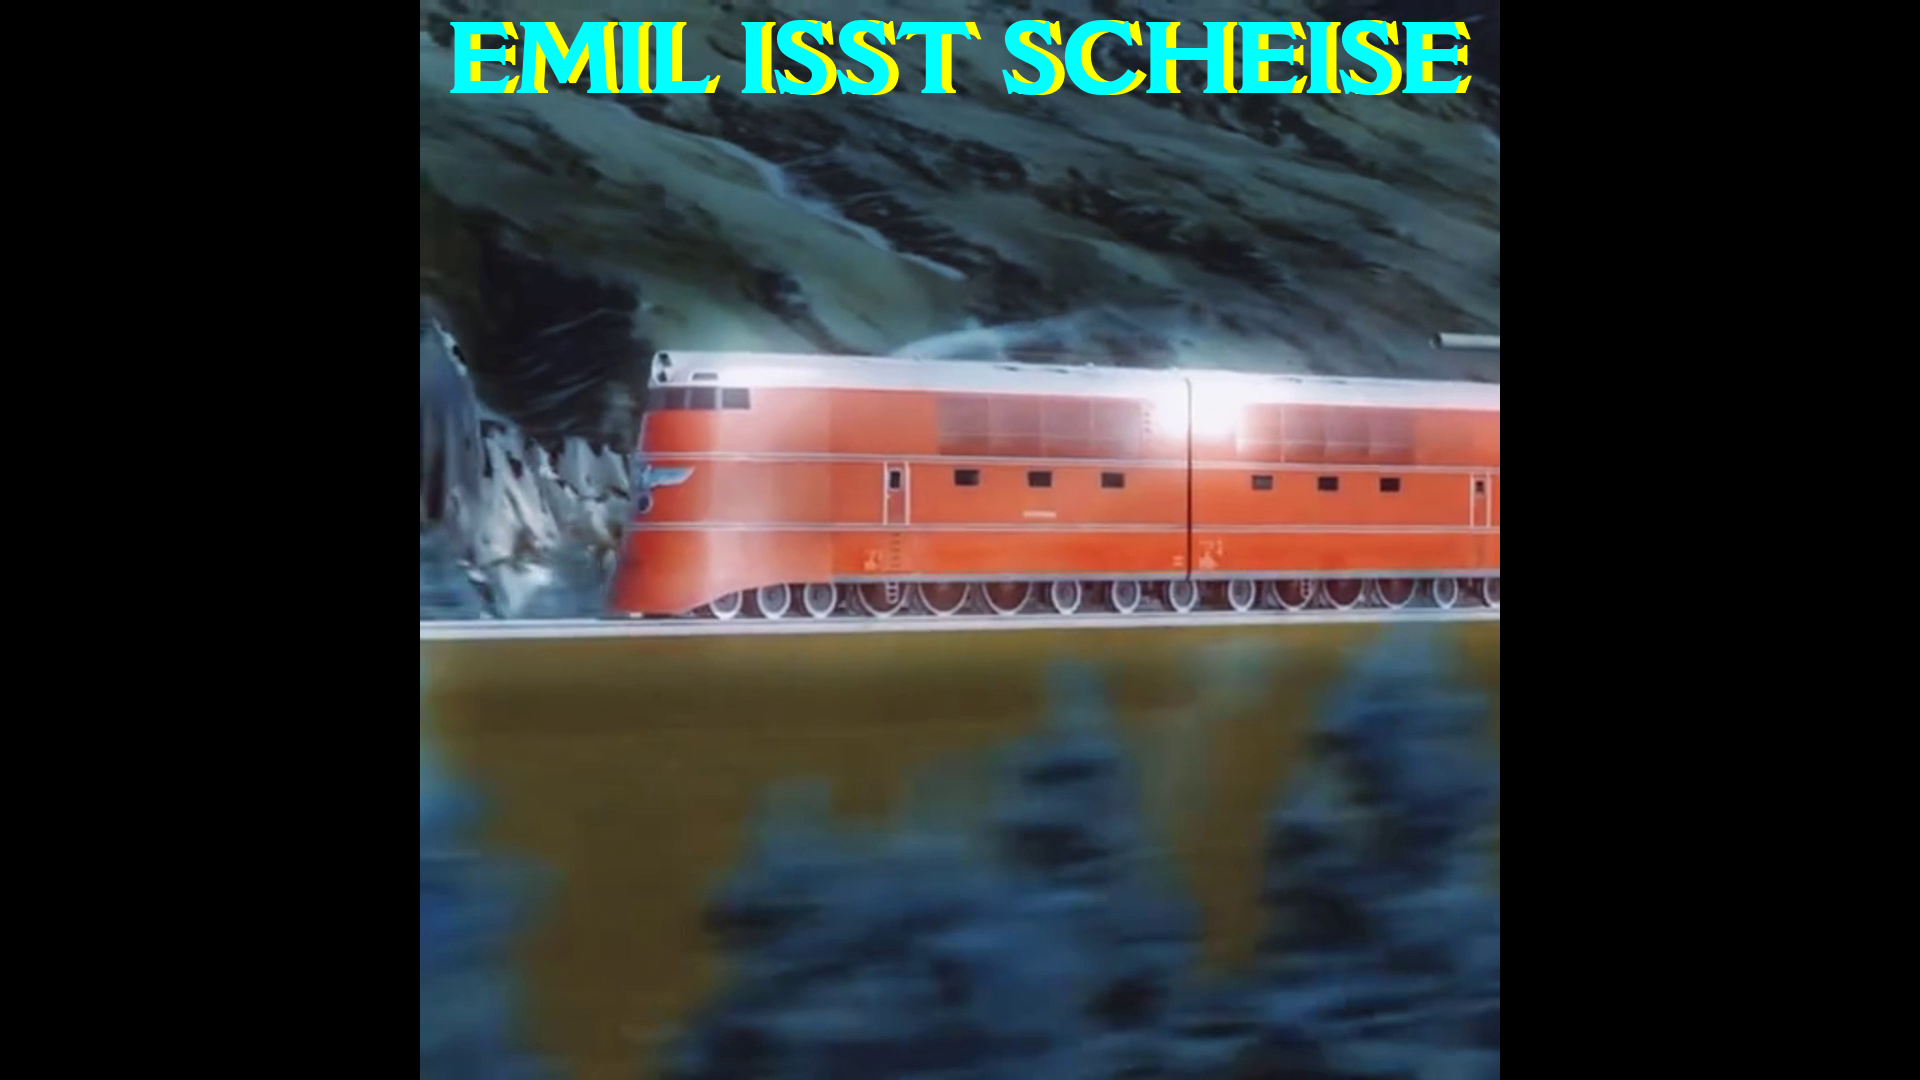
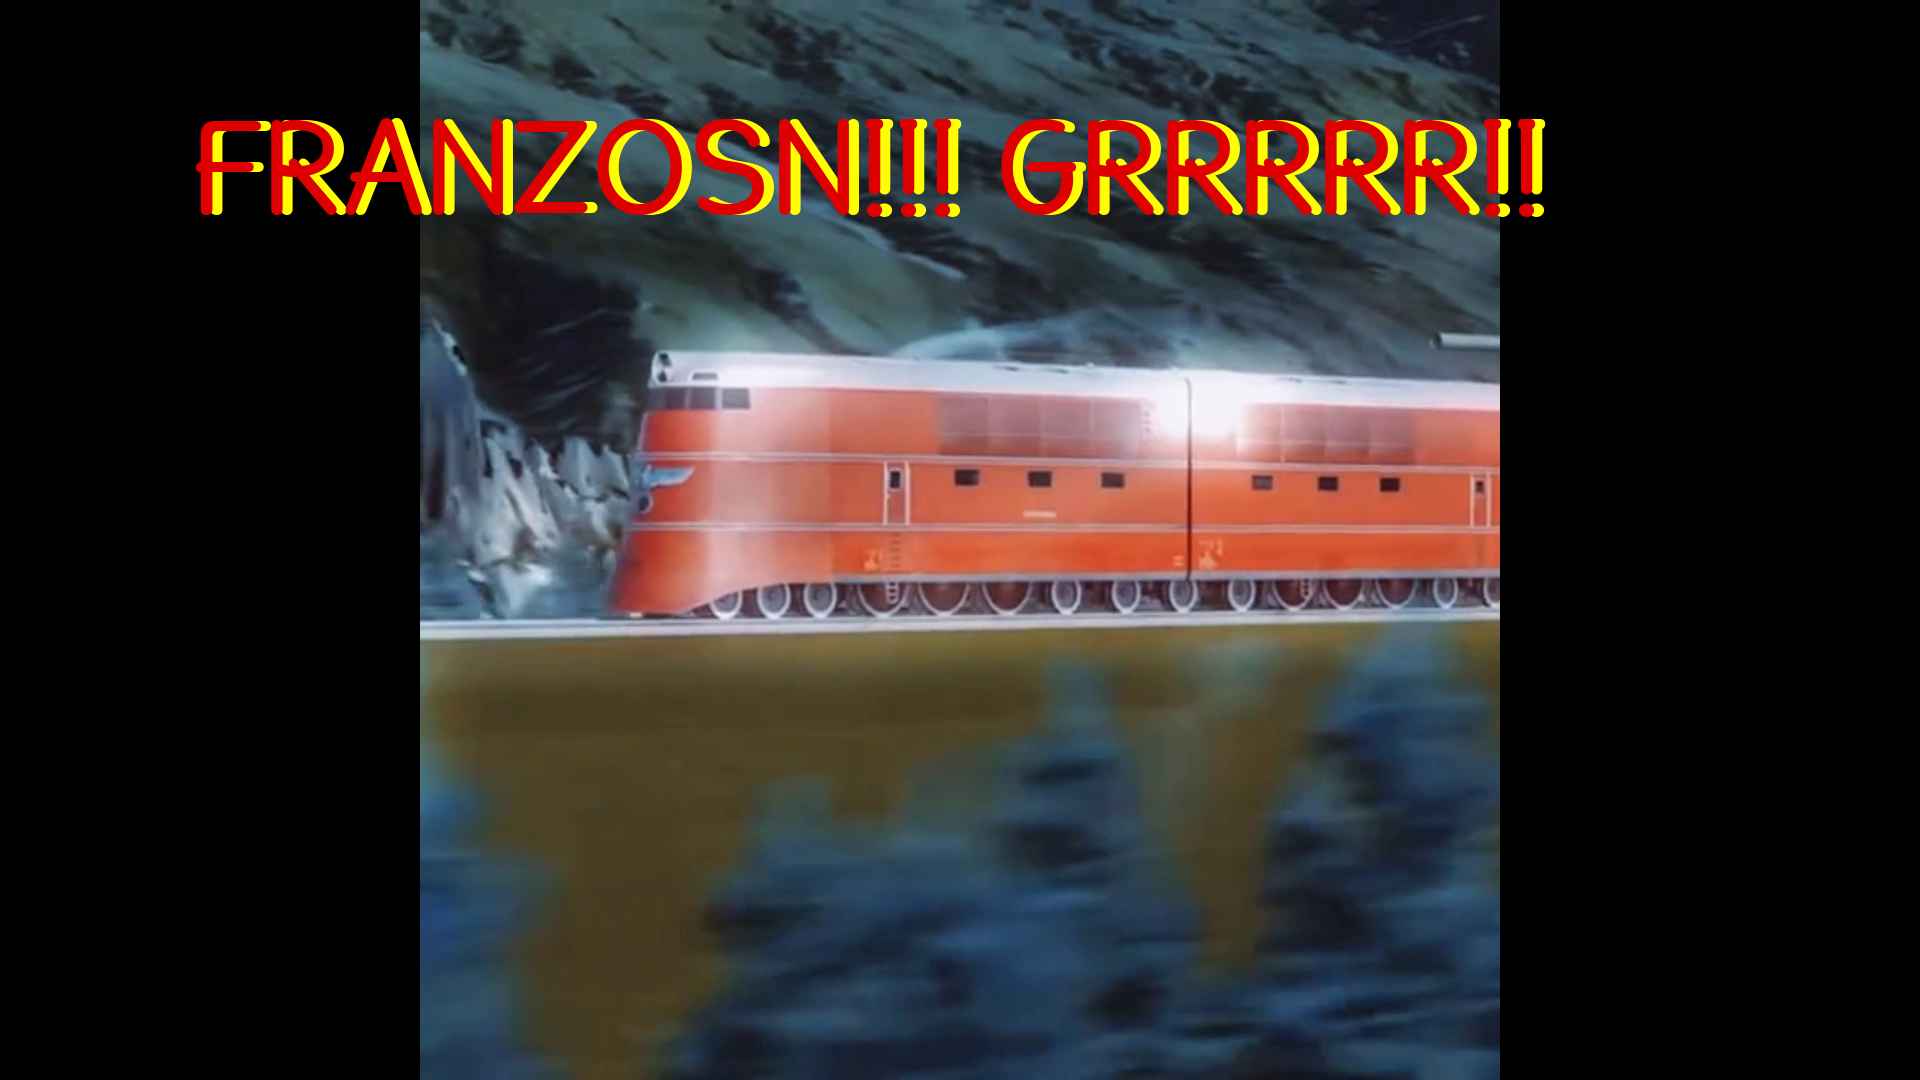
mann kann jezt eigne schriften auswählen

Changed region(s): [[0.0938, 0.0, 0.8125, 0.2139]]

diff --git a/das haupte.py b/das haupte.py
@@ -75,16 +75,17 @@ class bildui:
         self.ubaschreiben.grid(row=self.x, column=1) 
         self.doppeltext= tk.Checkbutton(ui,text="doppeltext",variable=self.doppeltextwert, onvalue=1,offvalue=0,fg="#FF0000",bg="#000000")
         self.doppeltext.grid(row=self.x, column=2) 
-        #self.testimg = tk.Label(image=bildedit)
-        #self.test = ImageTk.PhotoImage(bildedit)
+
+
         self.x = self.x +1
         self.pic = tk.Label(ui) 
         self.pic.grid(row=self.x, column=0)
         self.x = self.x +1
     def open(self):
-        print("sddfkpogf.njgf")
+        #print("sddfkpogf.njgf")
         path = self.name.get()
         text = self.textinput.get()
+        fontd = self.fontinput.get() or self.font
         if text!="":
             self.setpicture = Image.open(path)
             self.neuesbild = f"{path}_barbeided.png"
@@ -96,7 +97,7 @@ class bildui:
             b = self.blau.get()  or 0
             self.textcolor=(int(r),int(g),int(b))
             grose = self.fontsize.get() or 30
-            self.configured_font = ImageFont.truetype(self.font, size=int(grose))
+            self.configured_font = ImageFont.truetype(fontd, size=int(grose))
             malen=ImageDraw.Draw(self.setpicture)
             malen.text(self.textcursor,text,font=self.configured_font,fill=(self.textcolor))
             if self.doppeltextwert.get() == 1:
@@ -111,9 +112,9 @@ class bildui:
                     print("MINUS")
                     posx = int(x) - int(self.abstand.get()) 
                     self.textcursor=(posx,int(y))
-                r = self.roth.get()
-                g = self.grunh.get()
-                b = self.blauh.get()
+                r = self.roth.get() or 0
+                g = self.grunh.get() or 0 
+                b = self.blauh.get() or 0
                 self.textcolor=(int(r),int(g),int(b))
                 malen.text(self.textcursor,text,font=self.configured_font,fill=(self.textcolor))
             if self.ubaschreibenwert.get() == 1:
@@ -126,9 +127,6 @@ class bildui:
                 os.remove(self.neuesbild)
                 print("weg")
             else:
-              #  self.setpicture.save(self.setpicture)
-               # self.bild = Image.open(self.setpicture)
-               # print("bhalten")
                 self.setpicture.save(self.neuesbild)
                 self.bild = Image.open(self.neuesbild)
                 print("bhalten")
